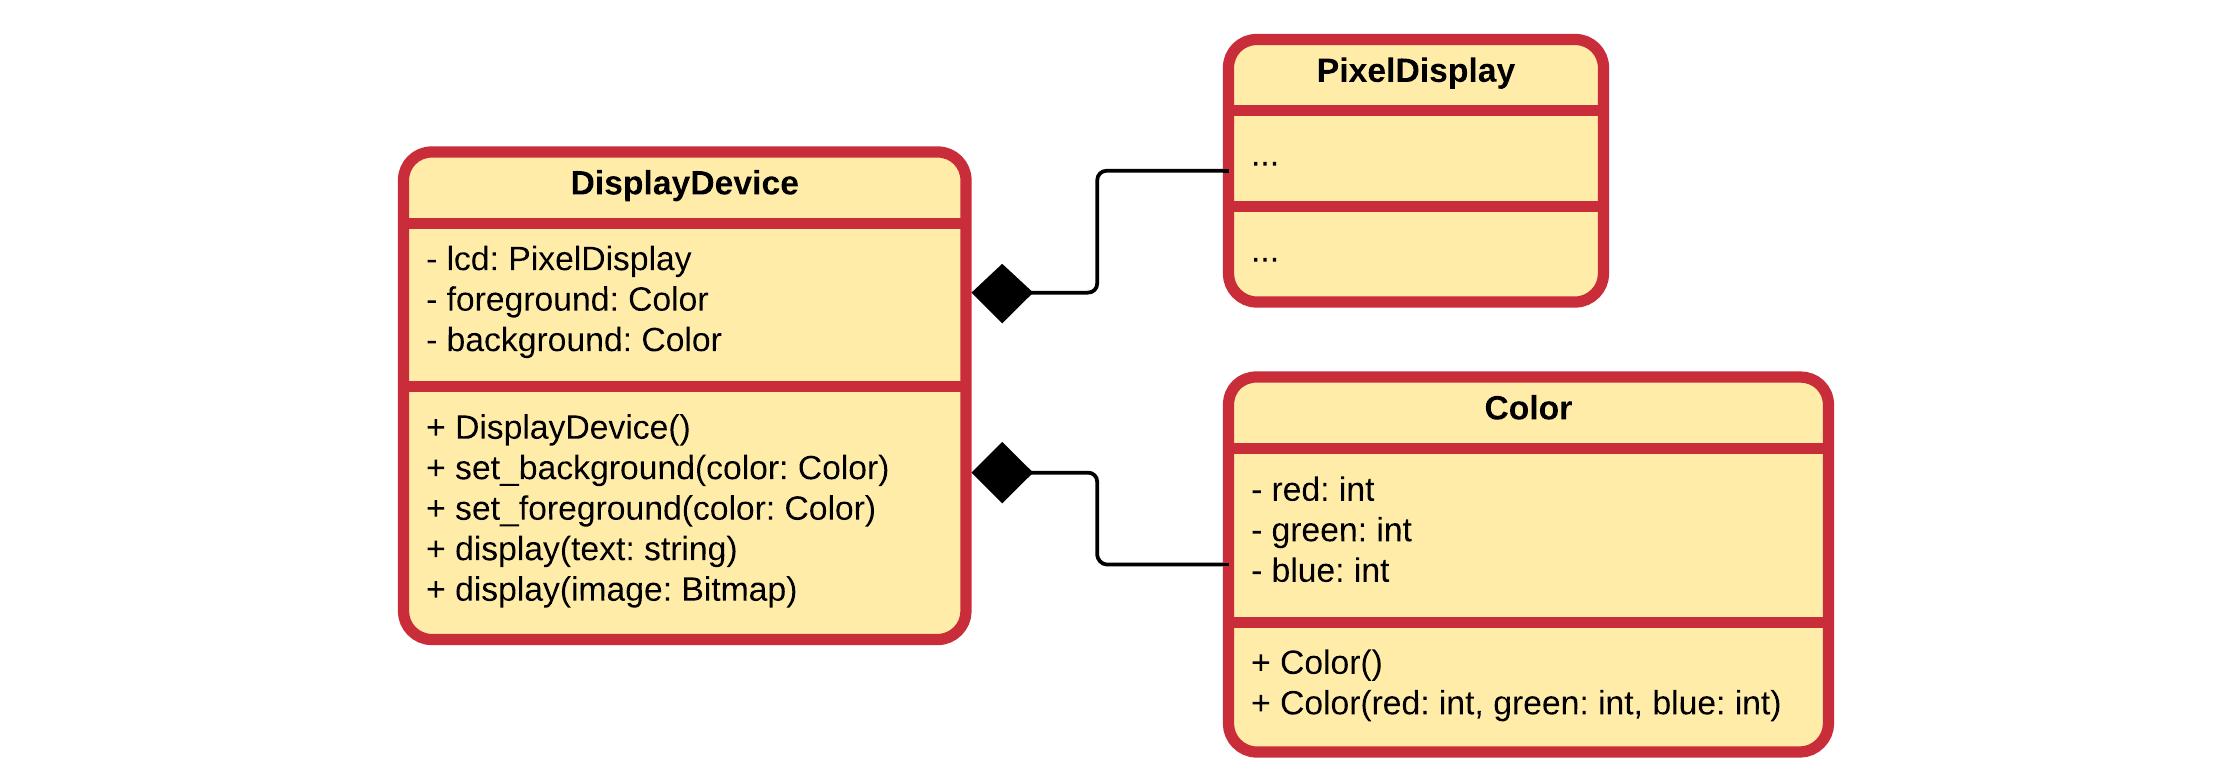
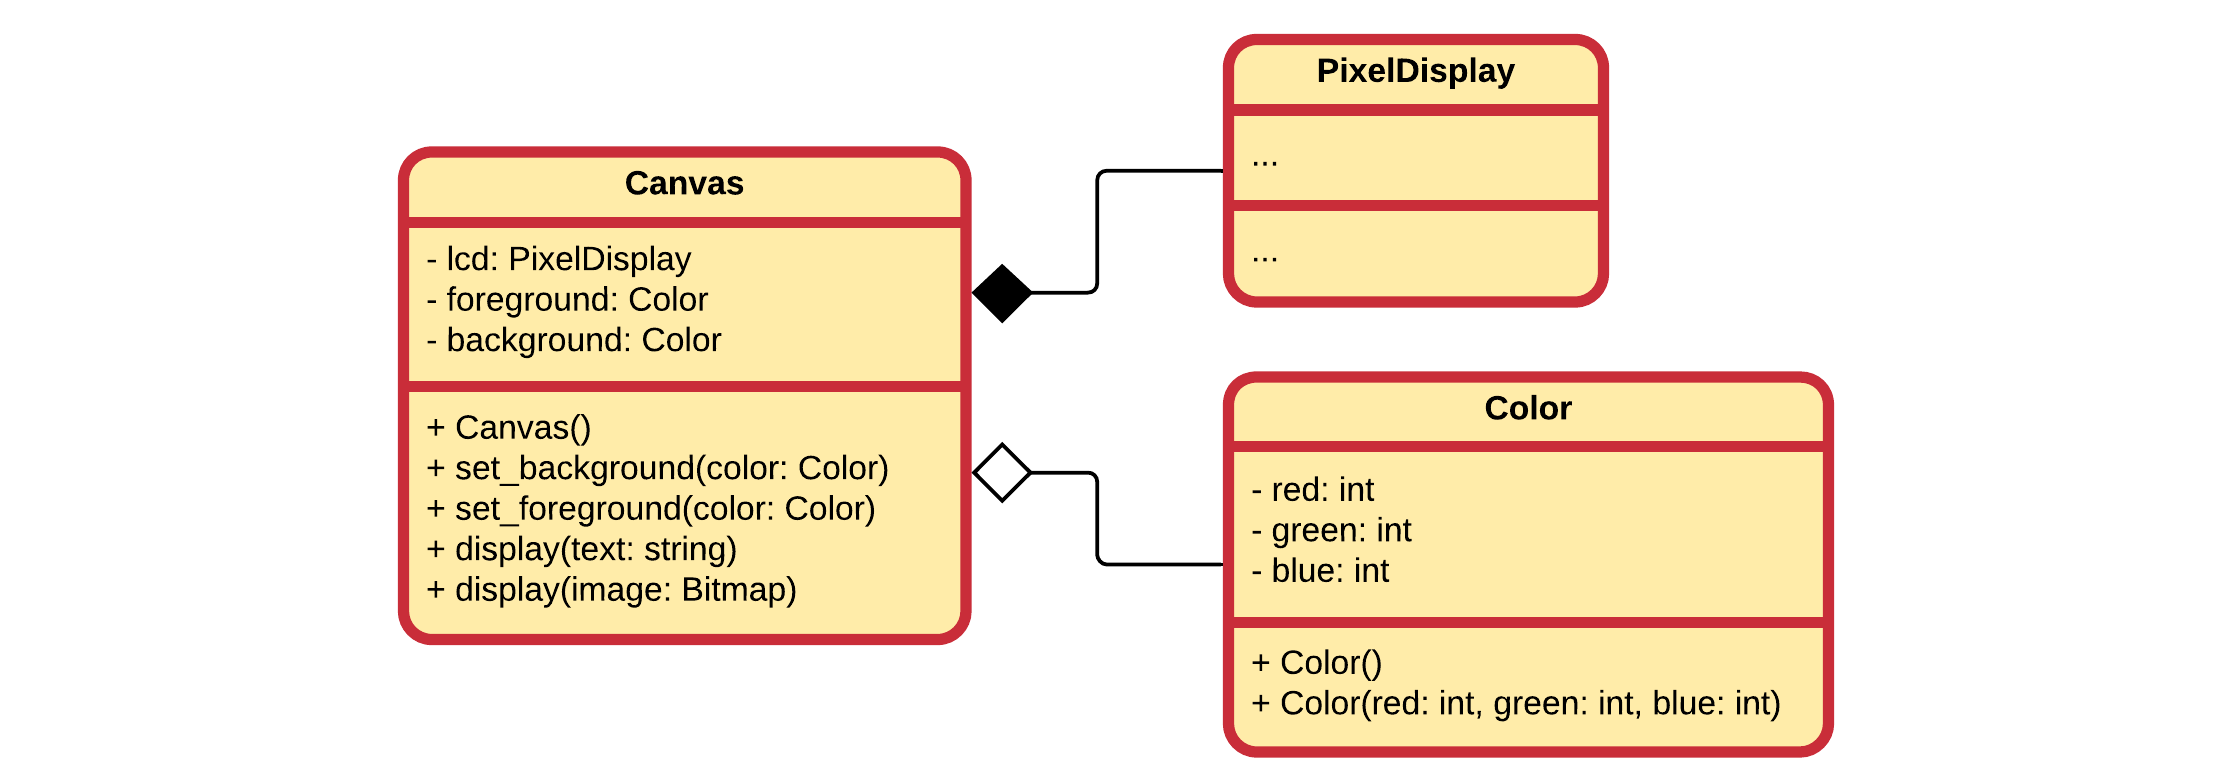
Refactor chapter on composition

diff --git a/docs/05-composition/README.md b/docs/05-composition/README.md
@@ -7,24 +7,37 @@ title: 05 - Composition
 
 # Chapter 05 - Composition
 
-One of the most used mechanisms to **reuse** code is by using composition and aggregation. By using composition we build **objects that consist of other objects**. Think of it as creating another type of object by packaging together other objects.
+One of the most used mechanisms to **reuse** functionality is by using composition. By using composition one builds **objects that consist of other objects**. Think of it as creating another type of object by packaging together other objects.
 
-Composition also allows us to hide complexity behind the simplicity of objects. In other words, objects allow us to create new levels of abstraction.
+Composition also allows one to hide complexity behind the simplicity of objects. In other words, objects allow one to create new levels of abstraction.
 
-Composition/Aggregation comes with a great deal of flexibility. Member objects of the new class can be made private, making them inaccessible to client programmers. This means that there can be changes without disturbing existing client code. This can even be done at runtime, to dynamically change the behavior of your program. This cannot be done using inheritance since the compiler must place compile-time restrictions on classes created with inheritance.
+Composition comes with a great deal of flexibility. Member objects of the new class can be made private, making them inaccessible to client programmers. This means that there can be changes without disturbing existing client code. This can even be done at runtime, to dynamically change the behavior of your program. This cannot be done using inheritance since the compiler must place compile-time restrictions on classes created with inheritance.
 
-Because inheritance is one of the main pillars of object oriented design, it is often over-estimated and over-used. When used wrongly, it can result in awkward and overly-complicated designs. A good practice is to look at aggregation/composition first when creating new classes as it is simpler and more flexible.
+Because inheritance is one of the main pillars of object oriented design, it is often over-estimated and over-used. When used wrongly, it can result in awkward and overly-complicated designs. A good practice is to look at composition first when creating new classes as it is simpler and more flexible.
 
-## Composition or aggregation
+## Association, Composition and Aggregation
 
-While in most cases aggregation is synonym with composition, there is a subtle difference.
+The simplest way to use a class is by creating objects from it and using those objects. In other words **an object of one class may use services/methods provided by an object of another class**. This kind of relationship is termed as an **association**.
 
-* **Aggregation** is a specialized form of association where all object have their own life cycle but there is ownership. In UML this is represented by a hollow diamond followed by a line.
-* **Composition** is a specialized form of aggregation. It is a strong type of aggregation. In this relationship child objects do not have their own life cycle. If a parent object is destroyed, all its child objects will also be destroyed. In UML this is represented by a solid diamond followed by a line.
+An association represents a relationship between two or more objects where all objects have their own lifecycle and there is no owner. The name of an association specifies the nature of relationship between objects. This is represented in UML by a solid line.
 
-For more information please consult the section "Reusing Implementation" of the GitBook Object Oriented Thinking at [https://vives.gitbook.io/oot/all-about-objects/reusing-implementation](https://vives.gitbook.io/oot/all-about-objects/reusing-implementation).
+While in **most cases aggregation is synonym with composition**, there is a **subtle difference**.
+
+**Composition** implies a relationship where the **child cannot exist independent of the parent**. In this relationship there is a **strong lifecycle dependency** between the child objects and the parent object. If a parent object is destroyed, its composed child objects will also be destroyed. In UML this is represented by a solid diamond followed by a line.
+
+![Composition](./img/composition.png)
+
+**Aggregation** implies a relationship where the child can exist independently of the parent. Aggregation is a specialized form of association where all object have their own life cycle. In UML this is represented by a hollow diamond followed by a line.
+
+The aggregation link is usually used to stress the point that one class instance is not the exclusive container of the other class instance, as in fact the same class B instance can exist in (an)other container(s).
+
+![Aggregation](./img/aggregation.png)
 
 While a clear distinction is made here between aggregation and composition, it is not always done so in practice. In practice, one does often speak of composition even if he/she were to mean aggregation. As a result this course may also use the word composition where aggregation is meant. Of course in cases where a clear distinction is needed, the correct term will be used.
+
+<!-- Source: https://www.visual-paradigm.com/guide/uml-unified-modeling-language/uml-aggregation-vs-composition/ -->
+
+To sum it up association is a very generic term used to represent when one class uses the functionalities provided by another class. It is sayed it's a composition if one parent class object owns another child class object and that child class object cannot meaningfully exist without the parent class object. If it can then it is called aggregation.
 
 ## Creating new Classes Through Composition
 
@@ -38,17 +51,17 @@ While developers will almost never document them as such in a UML diagram, the `
 
 When composing objects of other objects, the *sub objects* are normally made private. This hides implementation and allows the designer of the class to change the implementation if needed.
 
-Consider the following example where a `DisplayDevice` is modelled as a composition of an `PixelDisplay` object, which interacts with actual hardware, and `Color` objects that define the color of the letters and background.
+Consider the following example where a `Canvas` is modelled as a composition of a `PixelDisplay` object, which interacts with actual hardware, and `Color` objects that define the color of the foreground drawing and background.
 
 ![A Display Device](./img/display_device.png)
 
-By hiding the `PixelDisplay` object inside the `DisplayDevice` we hide the complexity of the hardware dependent class. This class may have methods for setting and resetting pixels, for changing hardware timings, for drawing rectangles, circles, and so on. We hide all that and we only expose the ability to show some text, through `display(text:string)`, and display a bitmap, through `display(image:Bitmap)`. This keeps our `DisplayDevice` simple and very user friendly.
+By hiding the `PixelDisplay` object inside the `Canvas`, one hides the complexity of the hardware dependent class. This class may have methods for setting and resetting pixels, for changing hardware timings, for drawing rectangles, circles, and so on. All that is hidden only the ability to show some text, through `display(text:string)`, and display a bitmap, through `display(image:Bitmap)` is made publicly available. This keeps the `Canvas` simple and very user friendly.
 
-Also if we ever wanted to switch from a backlit LCD pixel display to an OLED display, the classes that use the `DisplayDevice` never even have to change.
+Also if one ever wanted to switch from a backlit LCD pixel display to an OLED display, the classes that use the `Canvas` never even have to change.
 
 ## Construction of Composite Objects
 
-Whenever an object of a class is instantiated, its constructor is called. This however is not all that happens. When the object is composed of other objects, the constructors of those sub-objects is also called.
+**Whenever an object of a class is instantiated, a constructor is called**. This however is not all that happens. When the object is composed of other objects, the **constructors of those sub-objects are also called**.
 
 Take for example the class `Motorcycle` shown below, that is composed of several other classes, such as `GearBox`, `Motor`, ...
 
@@ -56,9 +69,9 @@ Take for example the class `Motorcycle` shown below, that is composed of several
 
 It is very important to know **which constructors** are called and at what time. Let's use the following implementation to illustrate which constructors are called when. Note that the constructors are implemented inline to shorten the code for this example.
 
-**battery.h**
+### Battery
 
-```c++
+```cpp
 // battery.h
 #pragma once
 #include <iostream>
@@ -71,9 +84,9 @@ class Battery {
 };
 ```
 
-**gearbox.h**
+### Gearbox
 
-```c++
+```cpp
 // gearbox.h
 #pragma once
 #include <iostream>
@@ -86,9 +99,9 @@ class GearBox {
 };
 ```
 
-**motor.h**
+### Motor
 
-```c++
+```cpp
 // motor.h
 #pragma once
 #include <iostream>
@@ -101,11 +114,11 @@ class Motor {
 };
 ```
 
-And then for the composed object:
+### Motorcycle
 
-**motorcycle.h**
+A `Motorcycle` is a composed object of a `Motor`, a `GearBox`and a `Battery`.
 
-```c++
+```cpp
 // motorcycle.h
 #pragma once
 
@@ -127,9 +140,11 @@ class Motorcycle {
 };
 ```
 
+### Basic Main Application
+
 The main program could be as simple as:
 
-```c++
+```cpp
 //main.cpp
 #include "motorcycle.h"
 
@@ -139,16 +154,18 @@ int main() {
 }
 ```
 
-Which would output:
-
-```text
+::: codeoutput
+<pre>
 Constructing Motor
 Constructing GearBox
 Constructing Battery
 Constructing Motorcycle
-```
+</pre>
+:::
 
-So basically, when constructing an object of a class, the default constructors of the composed objects are called first. When all composed objects are created, then the composing object is constructed.
+So basically, when constructing an object of a class, **the default constructors of the composed objects are called first**. When all composed objects are created, **then the composing object is constructed**.
+
+![Constructors Motorcycle and Sub Objects](./img/motorcycle_constructors.png)
 
 Important to think about is:
 
@@ -159,17 +176,19 @@ This picture will become a bit more complicated once inheritance joins our arsen
 
 ## Constructor Initialization List
 
-By default, the constructors invoked are the **default** ("no-argument") constructors. Moreover, all of these constructors are called before the class's own constructor is called.
+By default, the constructors invoked are the **default** ("no-argument") constructors. Moreover, all of these constructors are called before the class's own constructor is executed.
 
 But what if we do not want the default constructor to be invoked, or what if the composed object classes have no default constructors? In that case we need to be able to tell the compiler to execute a particular constructor when initializing the objects. This can be achieved using the **constructor initialization list**.
 
 A constructor initialization list immediately follows the constructor's signature, separated by a colon `:`. Calling a different constructor a sub-object is accomplished by specifying the name of the attribute (object) followed by parentheses and the appropriate arguments.
 
+### Composition of a Television
+
 Let's for example take a `Television` class that contains a `PowerSupply` that can convert any input voltage to any output voltage. We keep it simple and just implement the constructors to see what happens when the objects are instantiated.
 
-**power_supply.h**
+The header file looks like:
 
-```c++
+```cpp
 // power_supply.h
 #pragma once
 
@@ -183,9 +202,9 @@ class PowerSupply {
 };
 ```
 
-**power_supply.cpp**
+While the implementation is:
 
-```c++
+```cpp
 // power_supply.cpp
 #include "power_supply.h"
 #include <iostream>
@@ -199,11 +218,9 @@ PowerSupply::PowerSupply(double inputVoltage, double outputVoltage) {
 }
 ```
 
-Since the `PowerSupply` class has no default constructor, the `Television` class needs to use the constructor initialization list to call a specific constructor of `PowerSupply`. Note that it is the name of the attribute that is used and not the name of the class. Otherwise if multiple attributes of the same class would be available we would not be able to differentiate between them.
+The class definition of the `Television` declares that it has a sub-object `PowerSupply`. Note that it is not possible here to indicate which constructor of `PowerSupply` should be called.
 
-**television.h**
-
-```c++
+```cpp
 // television.h
 #pragma once
 #include "power_supply.h"
@@ -217,9 +234,11 @@ class Television {
 };
 ```
 
-**television.cpp**
+Since the `PowerSupply` class has no default constructor, the `Television` class needs to use the constructor initialization list to call a specific constructor of `PowerSupply`. Note that it is the name of the attribute that is used and not the name of the class. Otherwise if multiple attributes of the same class would be available one would not be able to differentiate between them.
 
-```c++
+<!-- TODO: Maybe we should show how to do this. Low voltage power supply and high voltage supply ? -->
+
+```cpp{6}
 // television.cpp
 #include "television.h"
 #include <iostream>
@@ -235,7 +254,7 @@ Television::Television(double inputVoltage)
 
 A example program can be as simple as:
 
-```c++
+```cpp
 // main.cpp
 #include "television.h"
 
@@ -252,4 +271,4 @@ Constructing PowerSupply: Input = 220 Output = 12
 Constructing Television
 ```
 
-Of course in practice most classes will have default constructors and if you need to change anything to the state of your internal objects you can often do this by calling the appropriate setters. However, if other constructors are available which initialize the sub-object to the wanted state, it is a good idea to use them as it keeps your code cleaner.
+In practice most classes will have default constructors and if you need to change anything to the state of the internal objects you can often do this by calling the appropriate setters. However, if other constructors are available which initialize the sub-object to the wanted state, it is a good idea to use them as it keeps the code cleaner.
